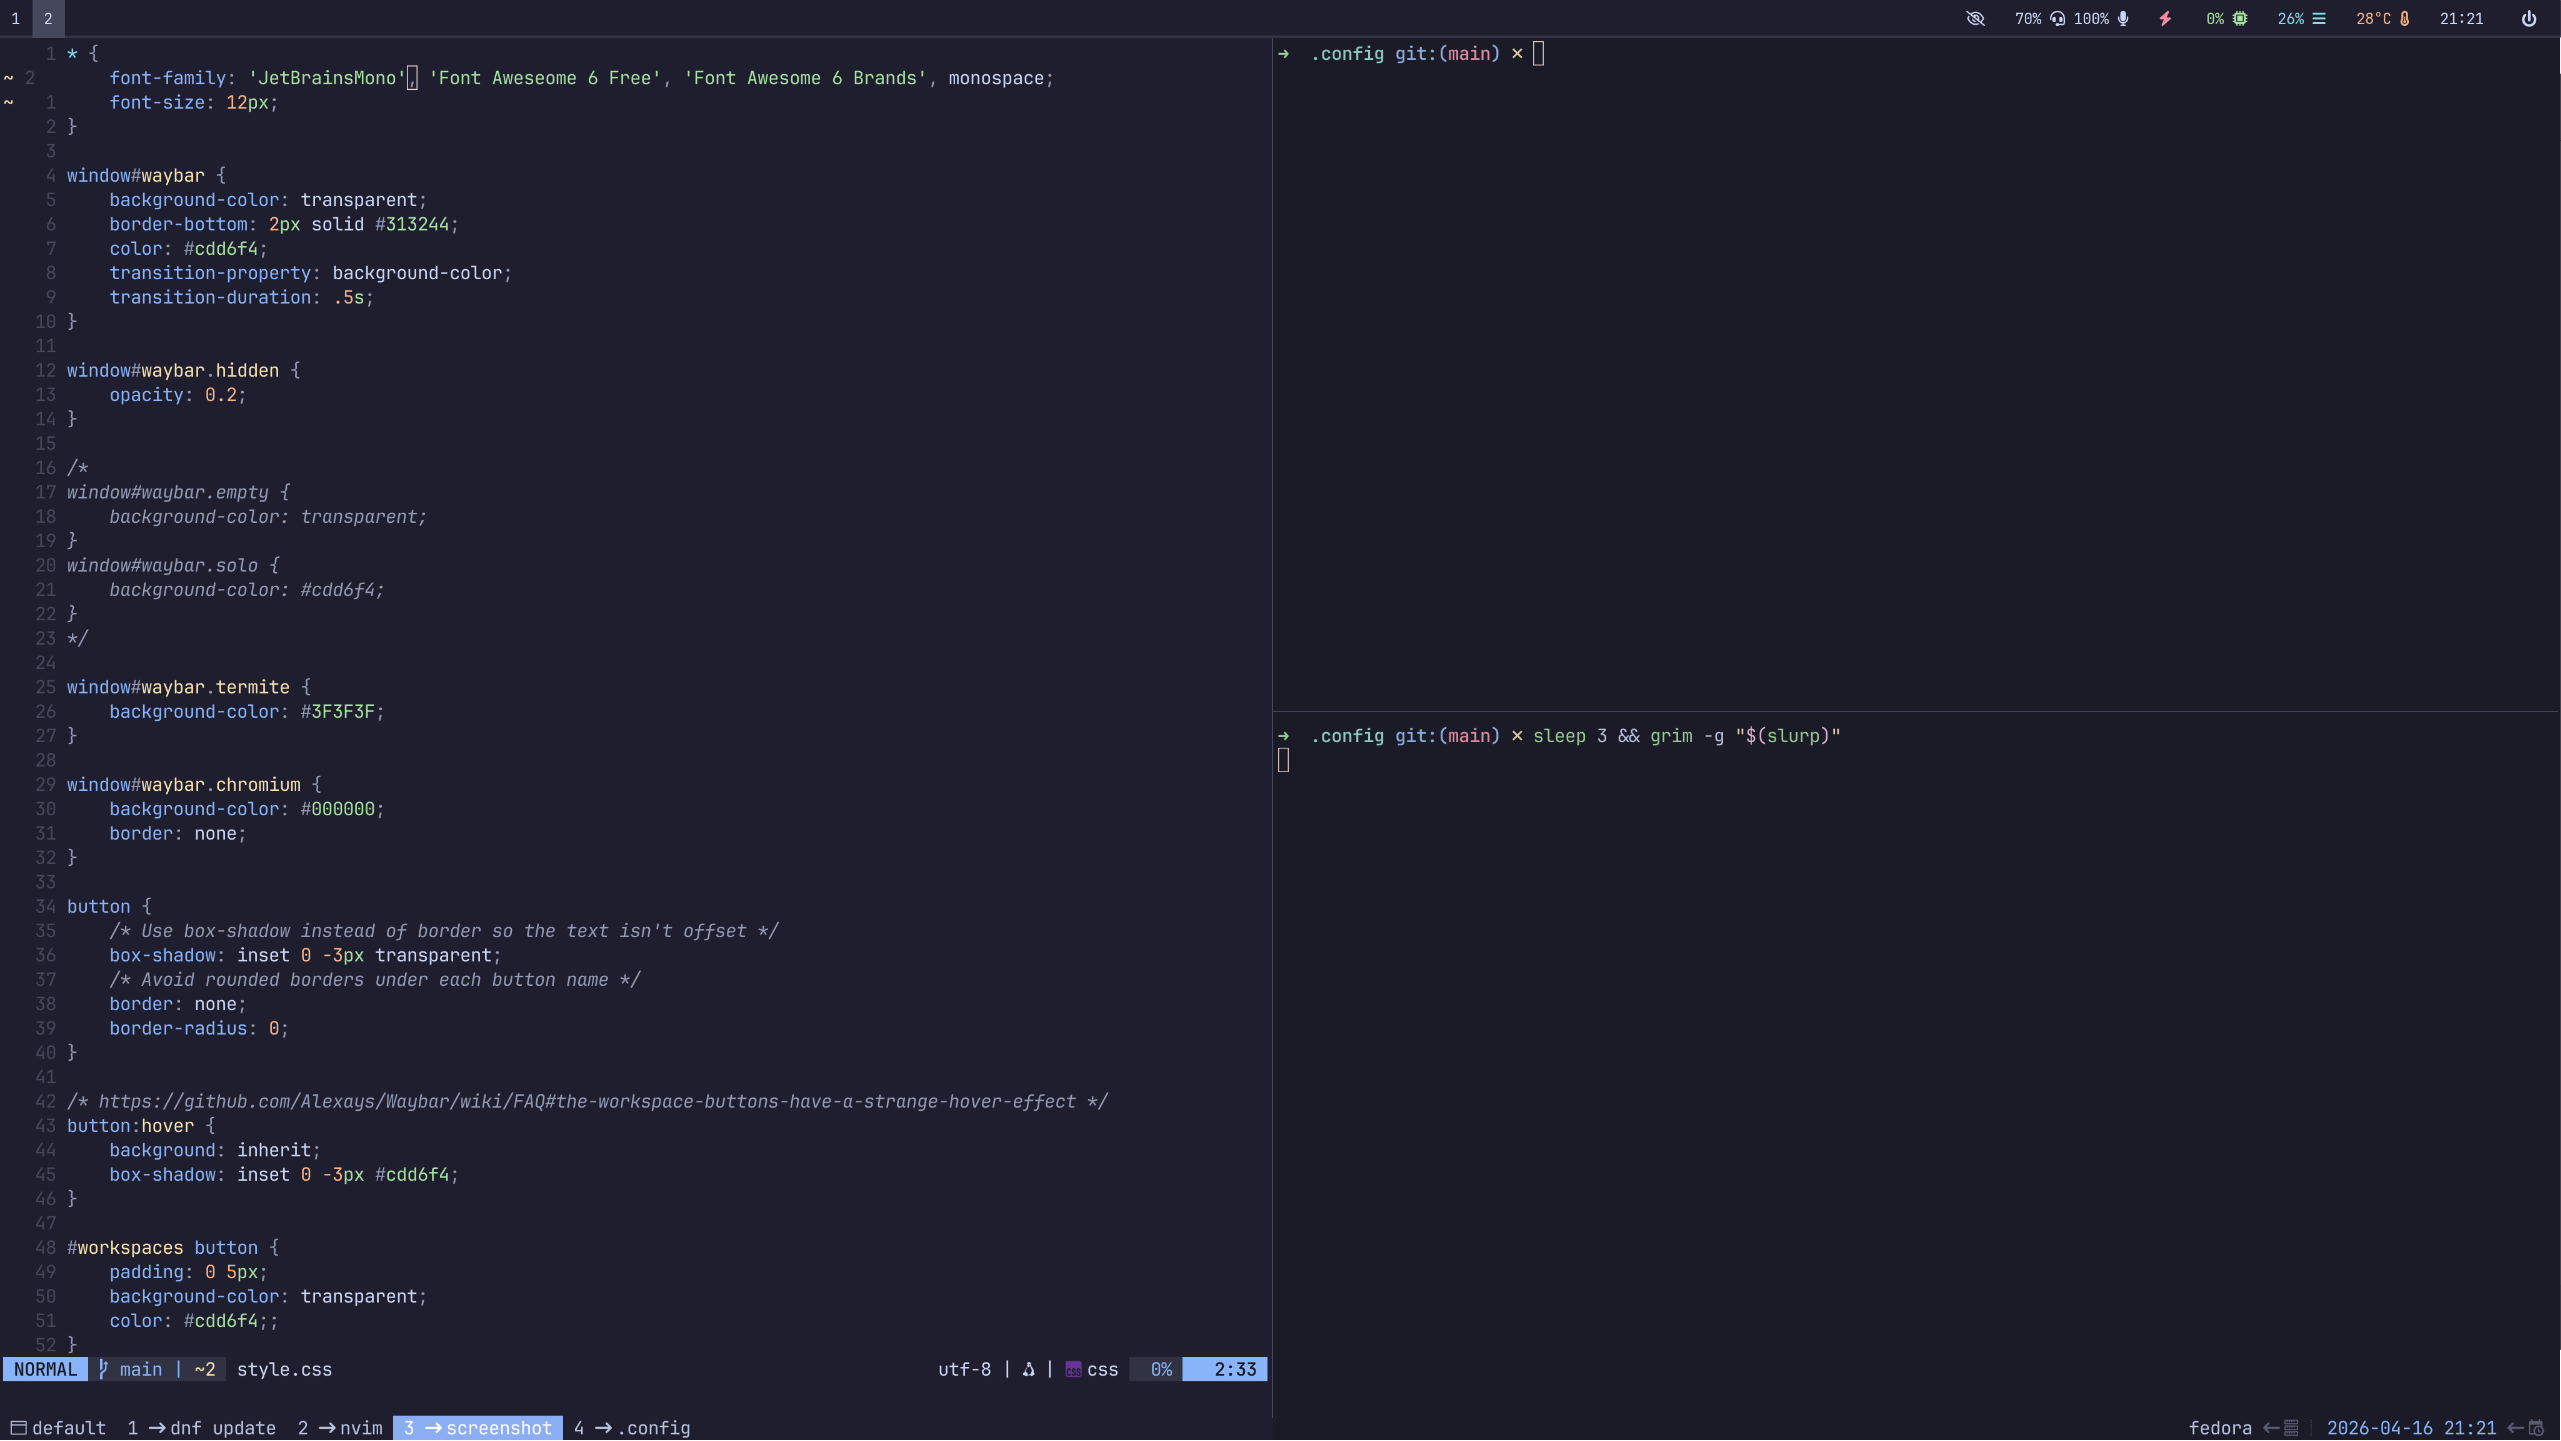
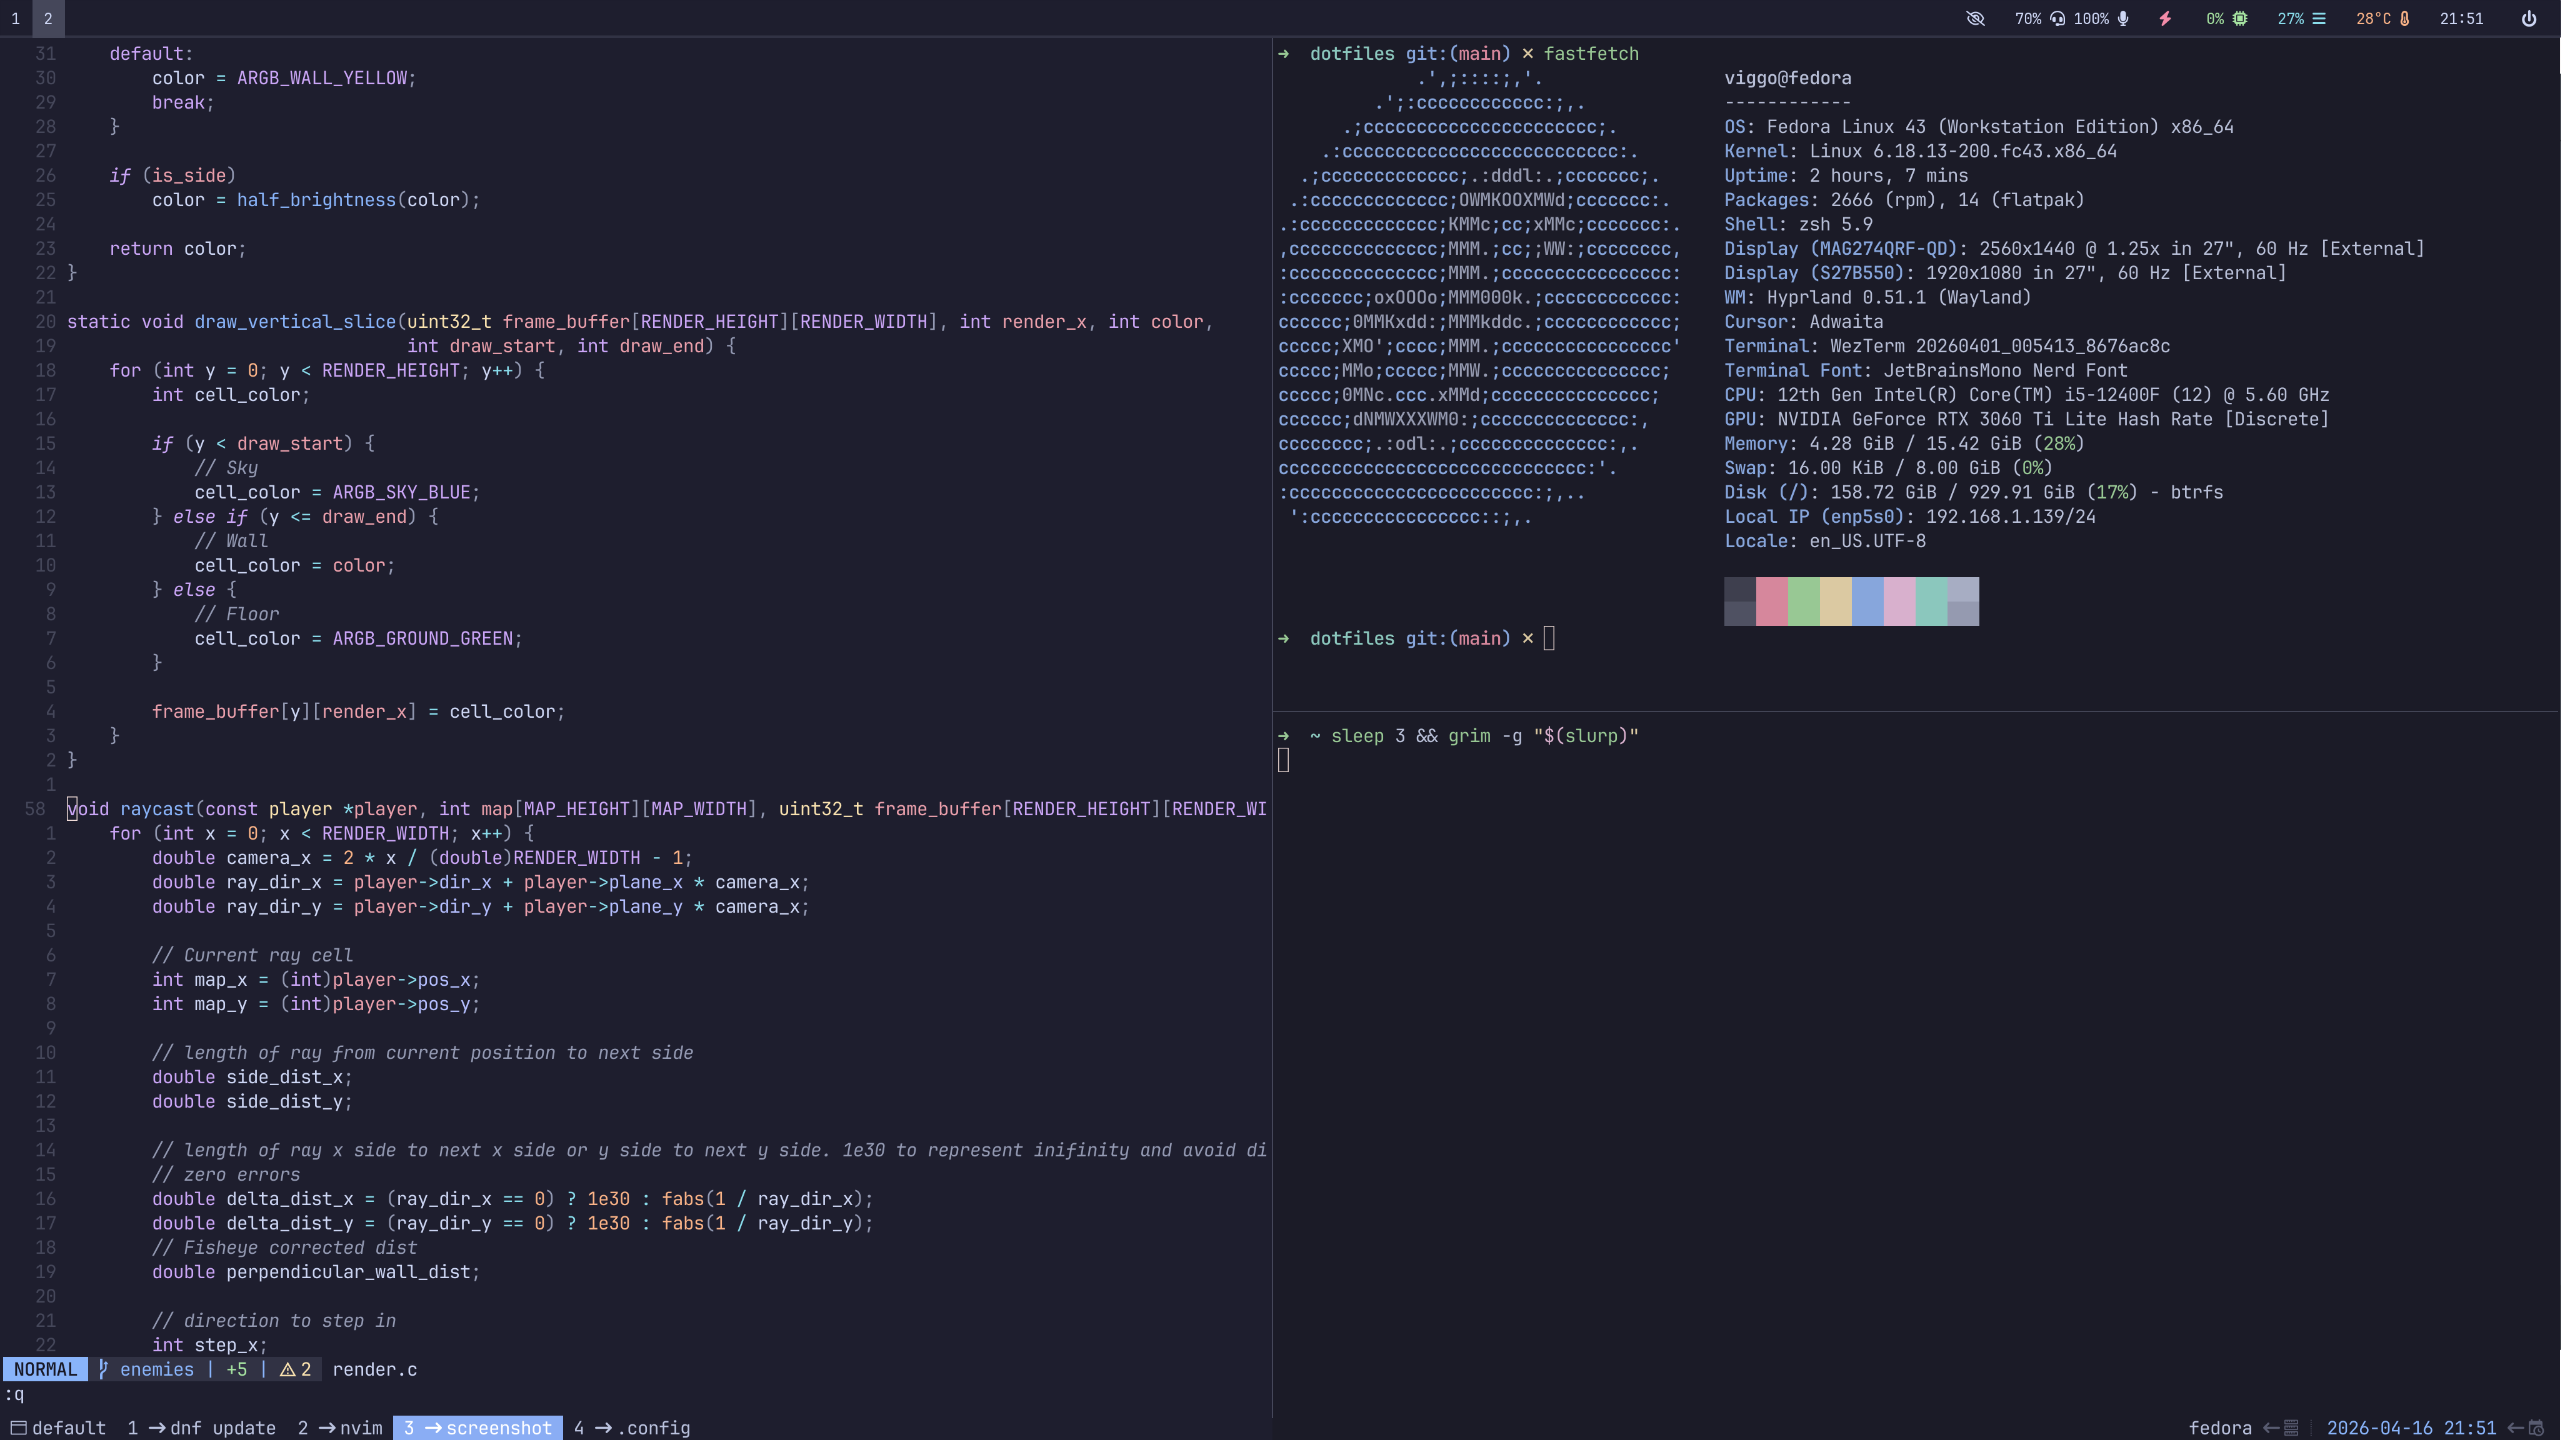
Reorder screenshots (and add a fastfetch)

diff --git a/README.md b/README.md
@@ -19,9 +19,16 @@ The goal is to be fast, efficient, and free of bloat, even if that comes at the 
 
 # Screenshots
 
-![Workspace with apps](screenshots/screenshot-apps.png)
-![WezTerm with tabs and panes](screenshots/screenshot-wezterm.png)
-![Empty workspace](screenshots/screenshot-empty.png)
+<table>
+  <tr>
+    <td><img src="screenshots/screenshot-apps.png" width="100%"></td>
+    <td><img src="screenshots/screenshot-empty.png" width="100%"></td>
+  </tr>
+  <tr>
+    <td colspan="2"> <img src="screenshots/screenshot-wezterm.png" width="100%"> </td>
+  </tr>
+</table>
+
 
 # System & Compatibility
 
